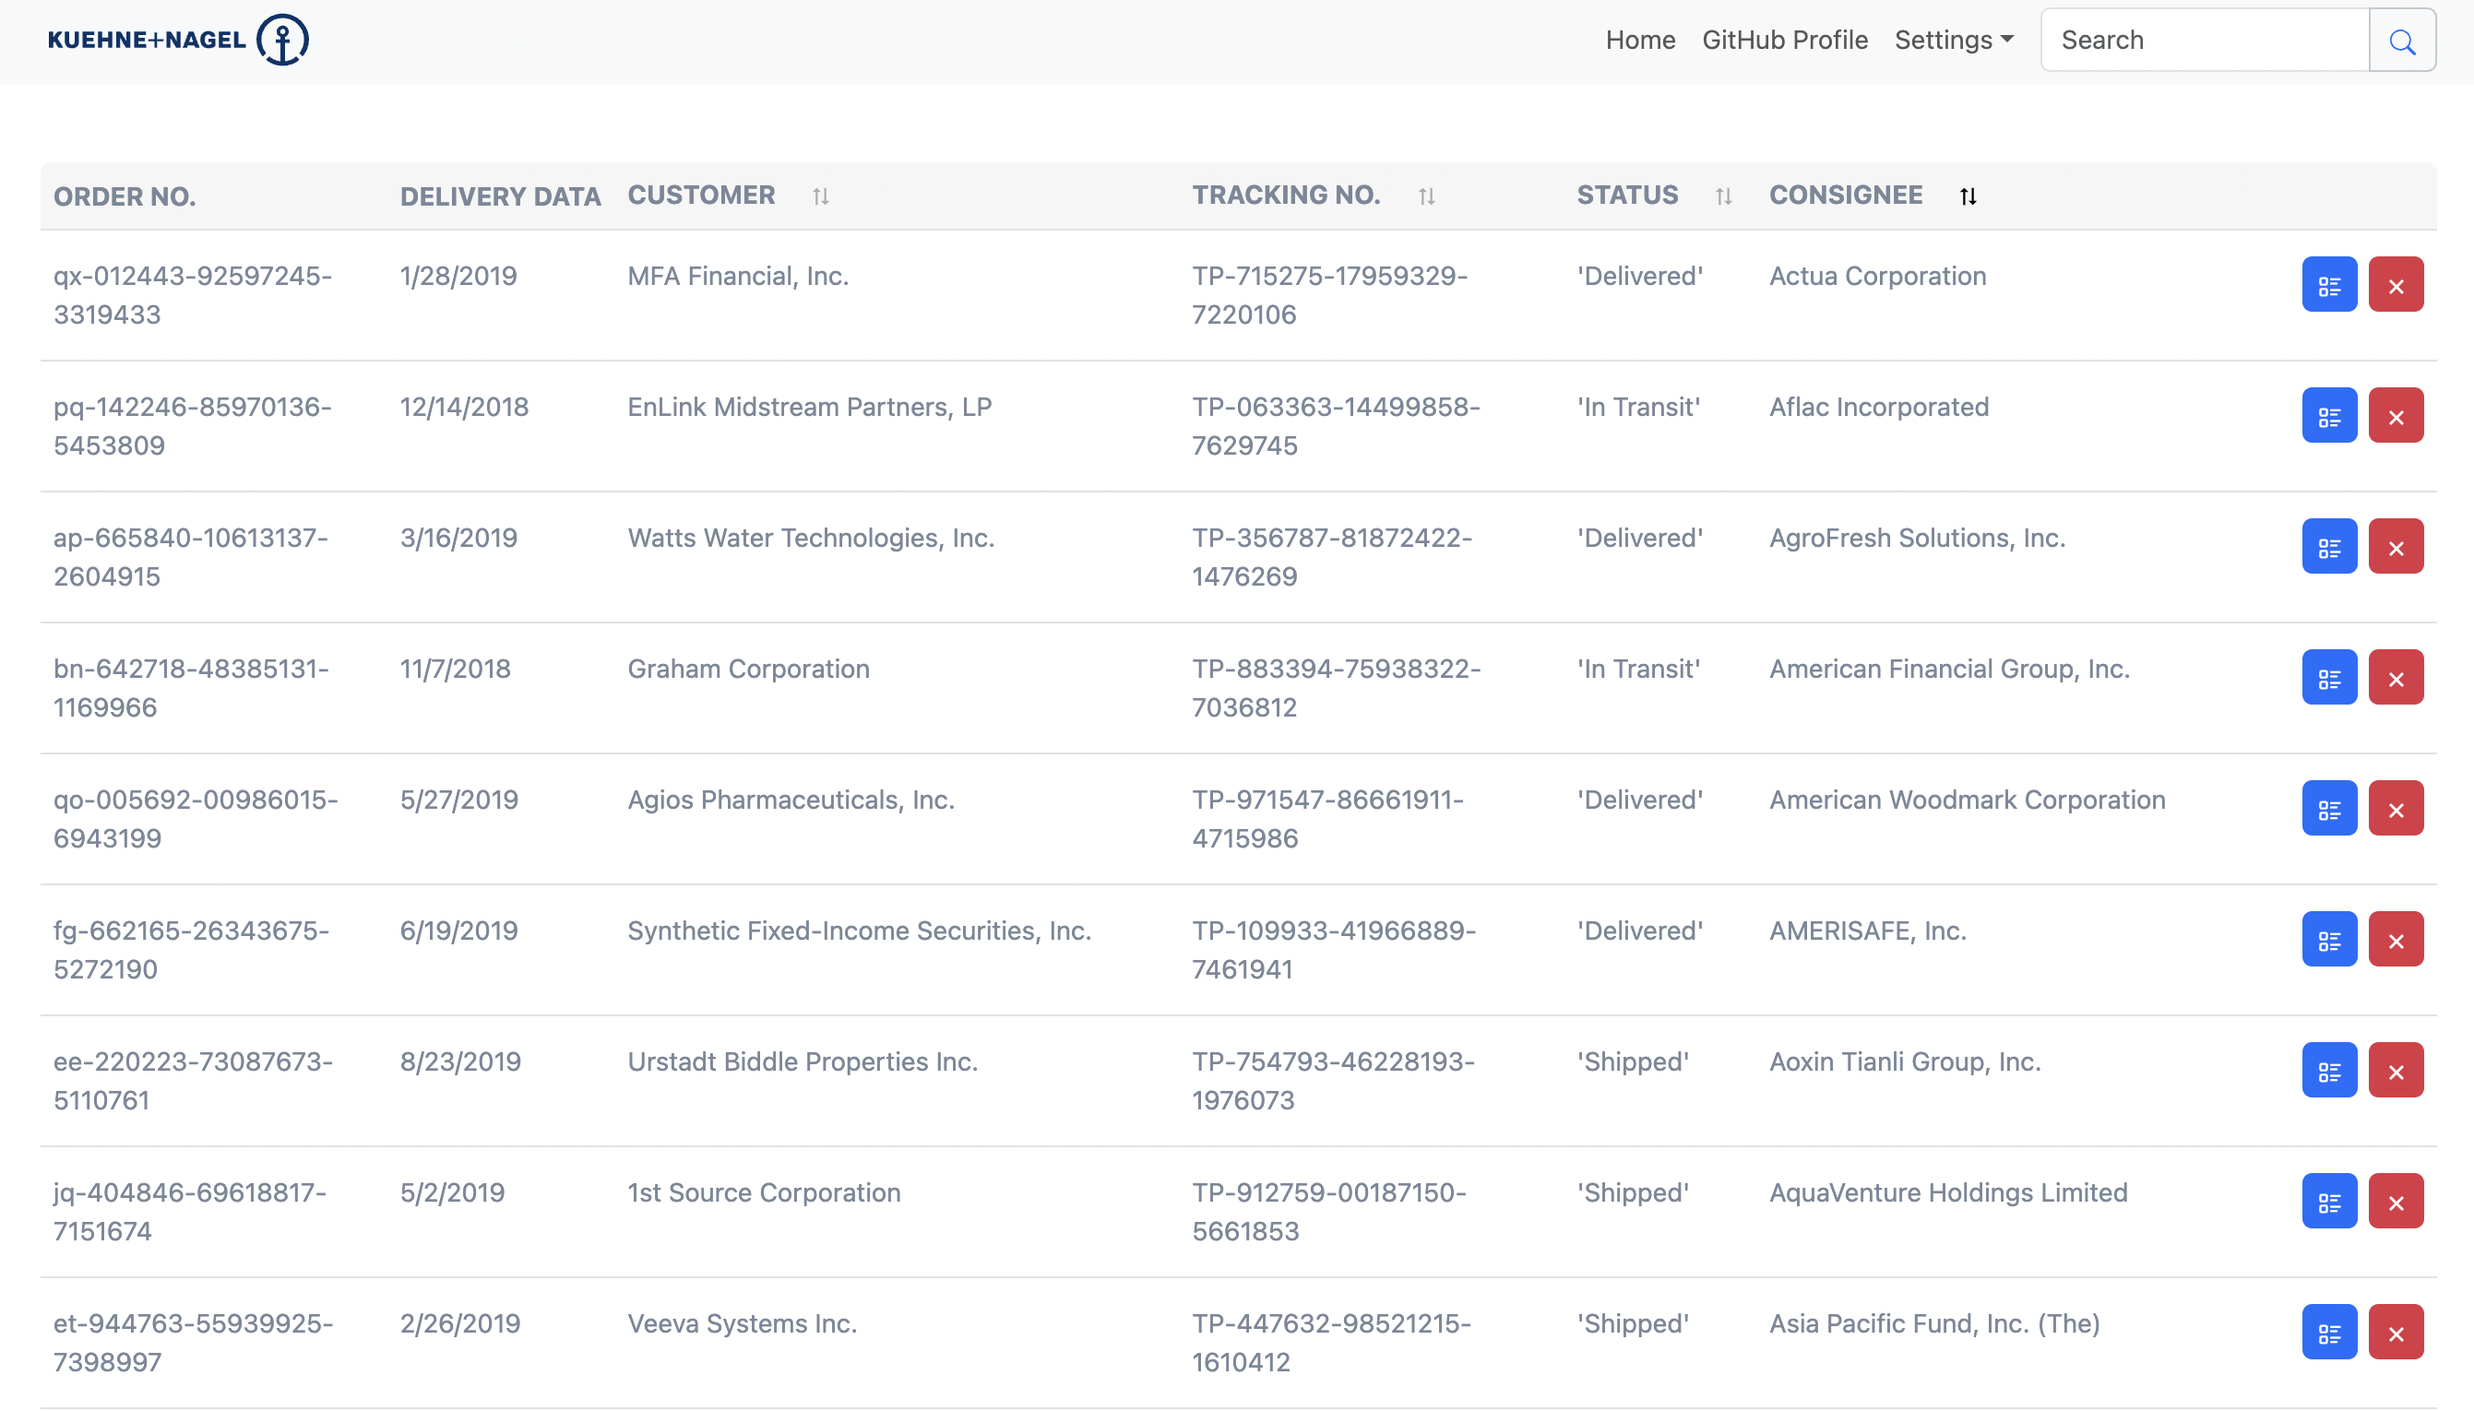
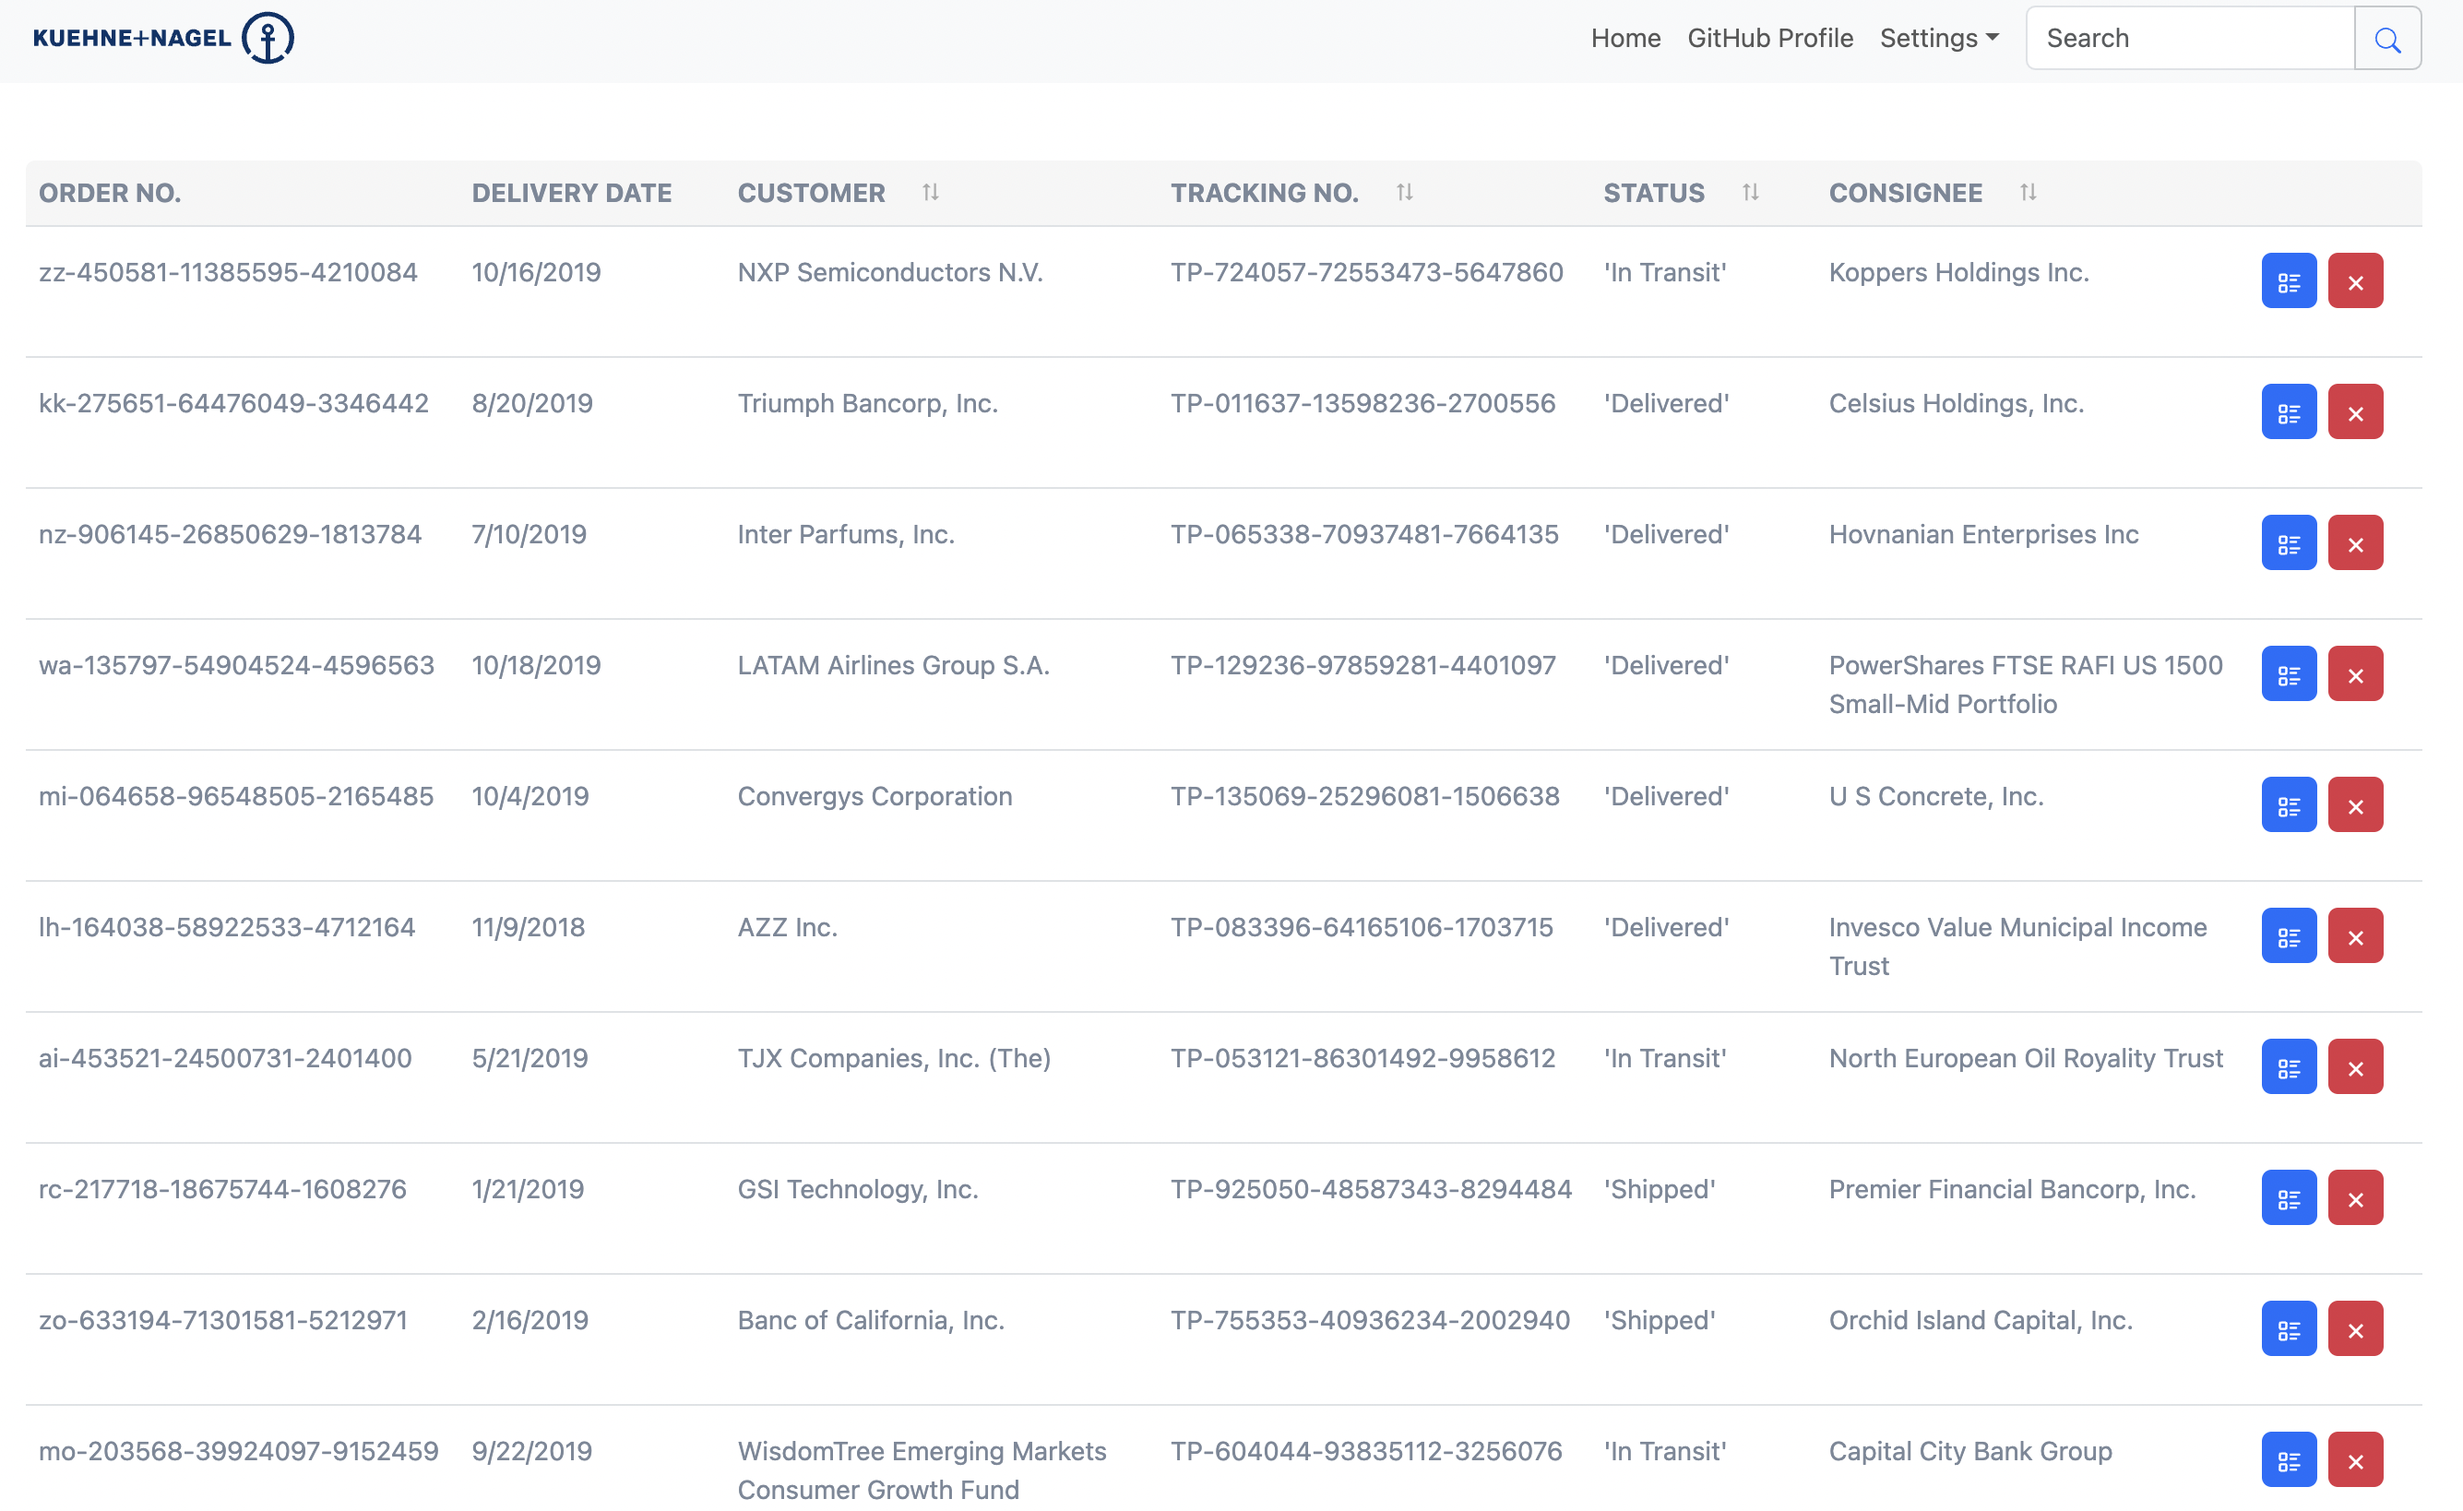
style: 'Status' column width, update preview img
* reduce Table's 'Status' column width
* update design preview img

diff --git a/src/components/ShipmentsTable/Table.tsx b/src/components/ShipmentsTable/Table.tsx
@@ -100,7 +100,7 @@ const ShipmentsTable = () => {
               />
             </th>
             <th
-              className={`text-nowrap pointer ${styles['width-120']}`}
+              className={`text-nowrap pointer ${styles['width-80']}`}
               onClick={() => toggleTableSort('status')}
             >
               Status
